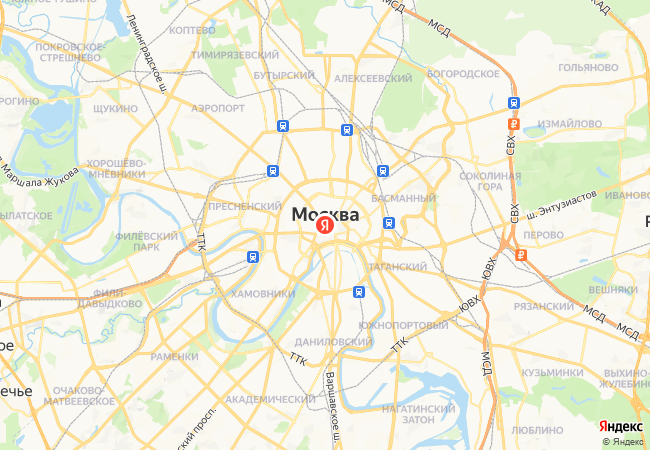
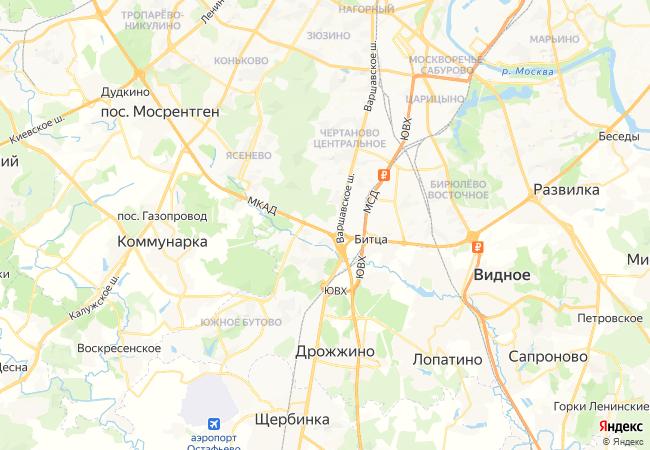
add field with full adress

diff --git a/api_func.py b/api_func.py
@@ -11,10 +11,10 @@ def geocoder(address):
     response = requests.get(geocoder_api_server, params=geocoder_params)
     if not response:
         pass
-    json_response = response.json()
-    toponym_longitude, toponym_lattitude = \
-    json_response["response"]["GeoObjectCollection"]["featureMember"][0]["GeoObject"]["Point"]["pos"].split(' ')
-    return toponym_longitude, toponym_lattitude
+    json_response = (response.json())["response"]["GeoObjectCollection"]['featureMember'][0]["GeoObject"]
+    full_result = json_response['metaDataProperty']['GeocoderMetaData']['Address']['formatted']
+    toponym_longitude, toponym_lattitude = json_response["Point"]["pos"].split(' ')
+    return toponym_longitude, toponym_lattitude, full_result
 
 
 def get_image(toponym_longitude, toponym_lattitude, size, map_type, point):

diff --git a/main.py b/main.py
@@ -44,14 +44,20 @@ class MyMainWindow(QMainWindow):
         return (-90 <= float(lat) <= 90) and (-180 <= float(lon) <= 180)
 
     def get_coords(self):
-        self.toponym_longitude, self.toponym_lattitude = geocoder(self.textEdit.toPlainText())
+        self.toponym_longitude, self.toponym_lattitude, self.full_adress = geocoder(self.textEdit.toPlainText())
         self.checkpoint.append(f"{self.toponym_longitude},{self.toponym_lattitude},ya_ru")
+        self.pull_responce_info()
+
+
+    def pull_responce_info(self):
+        self.textBrowser.setText(f'{self.full_adress}')
 
 
     def remove_checkpoint(self):
         self.checkpoint = ['']
         self.pull_image()
         self.checkpoint = []
+        self.textBrowser.clear()
 
 
 
